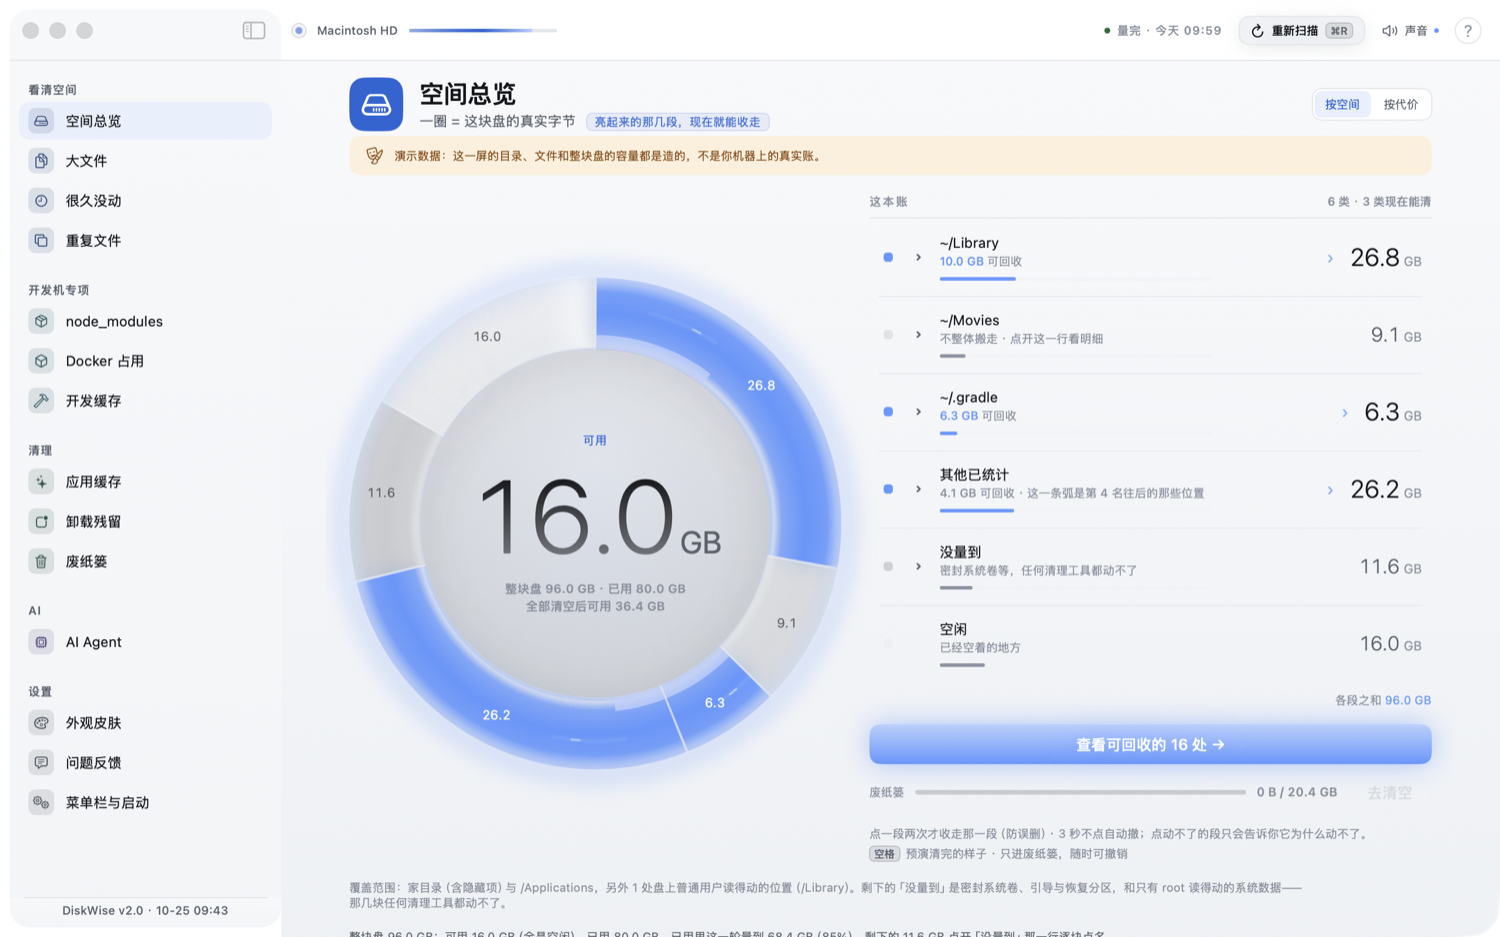
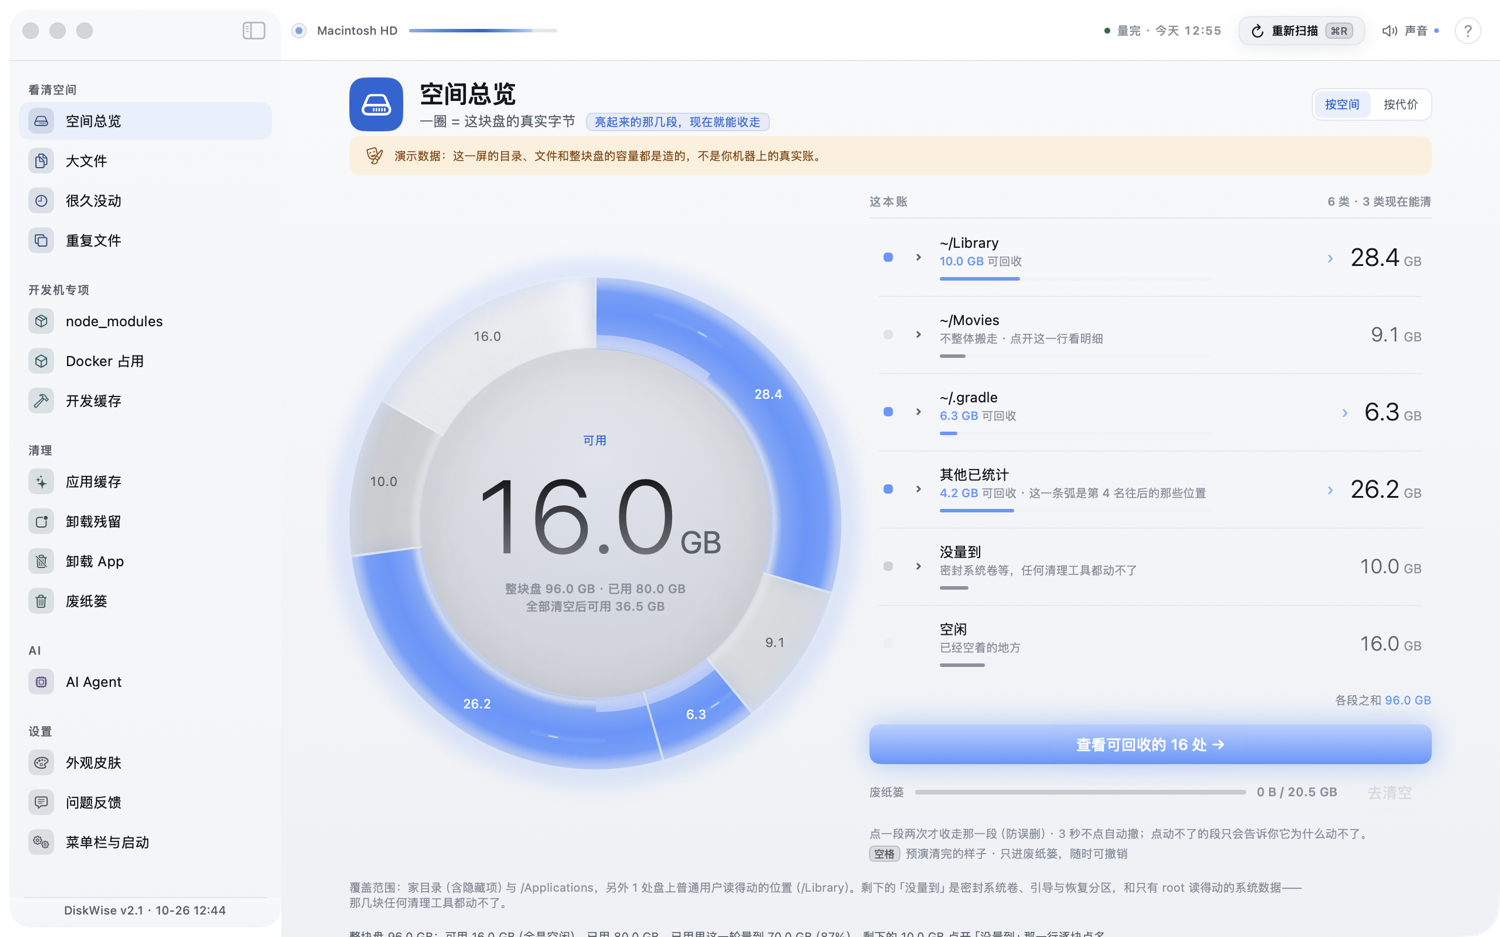
README 的图重拍一版：把卸载 App 那一页补进去
侧栏多了「卸载 App」，README 里的静帧和两个演示 GIF 都还是 2.0 的，
点进去看不到这一页。用同一个 2.1 构建、同一个演示家目录重扫：
- 七个静帧 + 三张皮肤 + 两张清理示意全部重拍，侧栏/页脚现在是 2.1
- 新增 08b-uninstall（中英各一张），四个 README 都插进去
- 两个 GIF 重跑，扫描→展开→勾选→搬进废纸篓→放回 的整条走通

演示脚本补了四款 App 名下的数据，否则卸载页永远只有「应用本体」一行。

diff --git a/README.ja.md b/README.ja.md
@@ -238,6 +238,11 @@ WeChat、DingTalk、WeCom が入っているのは、多くのマシンでこの
 |---|---|
 | <img src="docs/screenshots/en/07-dev-cache.png" width="410" alt="開発キャッシュ：Homebrew、npm、Maven、Gradle、シミュレータなど"> | <img src="docs/screenshots/en/08-leftovers.png" width="410" alt="アンインストール残骸：消したアプリが残したデータ"> |
 
+アプリごと片付けるページです。左がインストール済みのアプリ、右が選んだアプリの本体と、ホーム内で
+確実にそのアプリに属するフォルダ。所有はバンドル ID で判定し、曖昧な名前一致はしません：
+
+<img src="docs/screenshots/en/08b-uninstall.png" width="838" alt="アプリの削除：左にインストール済みのアプリ、右に選択したアプリの本体と所有フォルダが、コストバッジとチェックボックス付きで並ぶ">
+
 スキンのページは各テーマの**実際のサムネイル**を描きます —— ミニサイドバー、リングゲージ、行、ボタン
 まで、そのスキンの本物のトークンで描画されるので、着る前に骨格が分かります：
 

diff --git a/README.zh-CN.md b/README.zh-CN.md
@@ -210,6 +210,11 @@ DiskWise 走相反的路子：
 |---|---|
 | <img src="docs/screenshots/zh/07-dev-cache.png" width="410" alt="开发缓存：Homebrew、npm、Maven、Gradle、模拟器逐台等"> | <img src="docs/screenshots/zh/08-leftovers.png" width="410" alt="卸载残留：已卸载 App 留下的孤儿数据"> |
 
+卸载 App 那一页：左边是装着的应用，右边是选中那个的本体，加上家目录里确实属于它的那几处。
+归属只认包名，不做模糊猜：
+
+<img src="docs/screenshots/zh/08b-uninstall.png" width="838" alt="卸载 App：左边是装着的应用，右边是选中那个的本体与它名下的数据，逐行带代价标签和勾选框">
+
 皮肤页里每张卡都实时渲染该皮肤下的迷你侧边栏 + 环形图 + 列表行 + 按钮，看得懂骨架再决定穿不穿：
 
 <img src="docs/screenshots/zh/10-skins.png" width="838" alt="外观皮肤：六张卡片，每张实时渲染该皮肤下的整页缩略">

diff --git a/README.md b/README.md
@@ -235,6 +235,11 @@ anything moves:
 |---|---|
 | <img src="docs/screenshots/en/07-dev-cache.png" width="410" alt="Dev Caches: Homebrew, npm, Maven, Gradle, simulator devices and more"> | <img src="docs/screenshots/en/08-leftovers.png" width="410" alt="Leftovers: data orphaned by uninstalled apps"> |
 
+One page for whole apps — the app itself, plus the folders in your home that provably belong to
+it. A folder only appears here when it carries the app's bundle ID or a name derived from it:
+
+<img src="docs/screenshots/en/08b-uninstall.png" width="838" alt="Uninstall Apps: the installed apps on the left, and on the right the selected app's bundle plus the data folders it owns, each row with a cost badge and a tickbox">
+
 The skin store renders a **live thumbnail** of each theme — mini sidebar, ring gauge, rows and
 buttons, all drawn with that skin's real tokens — so you can see the skeleton before you wear it:
 
